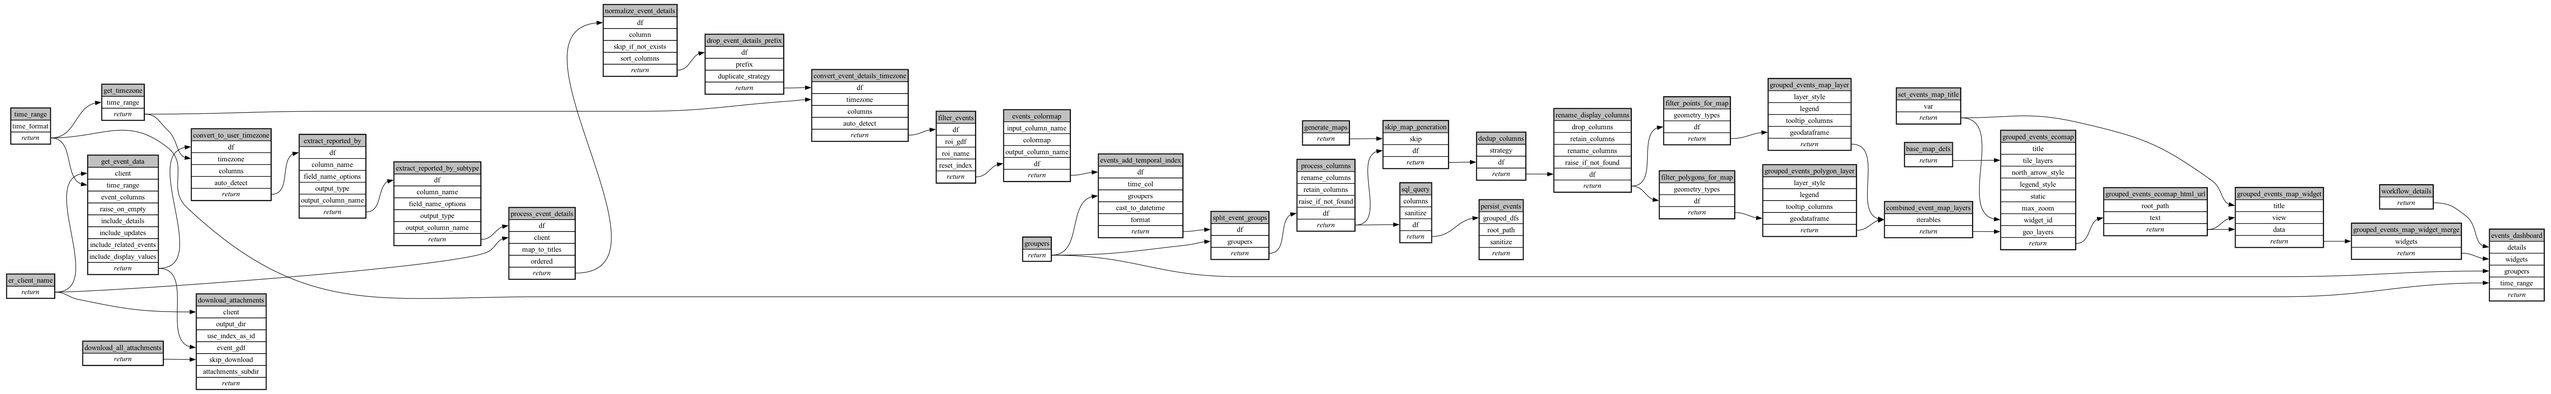
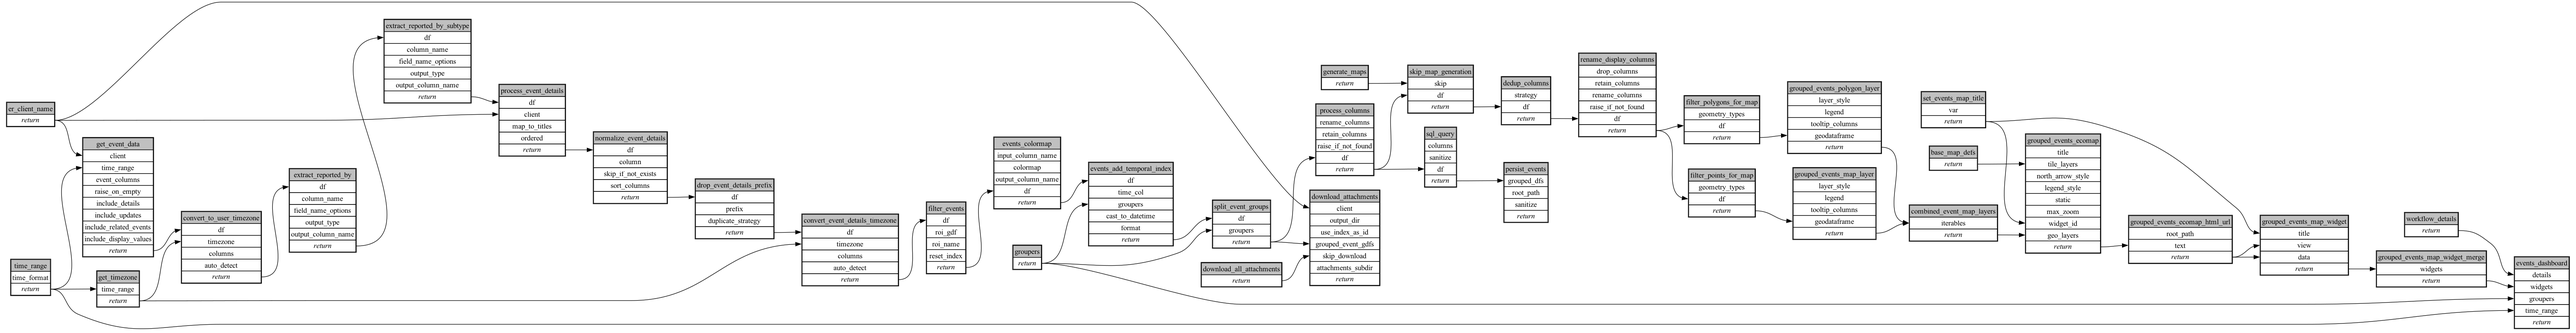
fix: wire grouped attachment download to split_event_groups (merge #44)
Rebase onto main (#44) introduced download_grouped_event_attachments and
groupbykey_passthrough_skip; rewire the attachment node to feed
grouped_event_gdfs from split_event_groups (keeping the positive
download toggle). Recompile (--variant=gcp).

Changed region(s): [[0.1874, 0.0, 0.9995, 0.9881], [0.0, 0.2162, 0.3124, 1.0], [0.1249, 0.0309, 0.2499, 0.3088]]

diff --git a/ecoscope-workflows-download-events-workflow/ecoscope_workflows_download_events_workflow/dags/run_sequential_mock_io.py b/ecoscope-workflows-download-events-workflow/ecoscope_workflows_download_events_workflow/dags/run_sequential_mock_io.py
@@ -86,6 +86,9 @@ from ecoscope.platform.tasks.skip import all_geometry_are_none as all_geometry_a
 from ecoscope.platform.tasks.transformation import (
     filter_by_geometry_type as filter_by_geometry_type,
 )
+from ecoscope_workflows_ext_custom.tasks.groupby import (
+    groupbykey_passthrough_skip as groupbykey_passthrough_skip,
+)
 from ecoscope_workflows_ext_custom.tasks.skip import maybe_skip_df as maybe_skip_df
 from ecoscope_workflows_ext_custom.tasks.transformation import (
     drop_duplicate_columns as drop_duplicate_columns,
@@ -556,7 +559,7 @@ def main(params: dict[str, Any], validate_params_schema: bool = True):
             client=er_client_name,
             output_dir=os.environ["ECOSCOPE_WORKFLOWS_RESULTS"],
             use_index_as_id=False,
-            event_gdf=get_event_data,
+            grouped_event_gdfs=split_event_groups,
             skip_download=download_all_attachments,
             attachments_subdir="attachments",
             **(params.get("download_attachments") or {}),

diff --git a/ecoscope-workflows-download-events-workflow/ecoscope_workflows_download_events_workflow/dags/run_sequential.py b/ecoscope-workflows-download-events-workflow/ecoscope_workflows_download_events_workflow/dags/run_sequential.py
@@ -539,7 +539,7 @@ def main(params: dict[str, Any], validate_params_schema: bool = True):
             client=er_client_name,
             output_dir=os.environ["ECOSCOPE_WORKFLOWS_RESULTS"],
             use_index_as_id=False,
-            event_gdf=get_event_data,
+            grouped_event_gdfs=split_event_groups,
             skip_download=download_all_attachments,
             attachments_subdir="attachments",
             **(params.get("download_attachments") or {}),

diff --git a/ecoscope-workflows-download-events-workflow/tests/conftest.py b/ecoscope-workflows-download-events-workflow/tests/conftest.py
@@ -44,7 +44,7 @@ RESULTS_ENV_VAR = "ECOSCOPE_WORKFLOWS_RESULTS"
 IO_TASKS_IMPORTABLE_REFERENCES = [
     "ecoscope.platform.tasks.io.get_events",
     "ecoscope_workflows_ext_custom.tasks.io.process_events_details",
-    "ecoscope_workflows_ext_custom.tasks.io.download_event_attachments",
+    "ecoscope_workflows_ext_custom.tasks.io.download_grouped_event_attachments",
 ]
 
 yaml = ruamel.yaml.YAML(typ="safe")

diff --git a/ecoscope-workflows-download-events-workflow/README.md b/ecoscope-workflows-download-events-workflow/README.md
@@ -5,8 +5,8 @@
 
 ```yaml
 # fingerprint:
-artifacts_sha256_basic: ef1bffafbddec702577e5eb2917173991060a20db8b018f8829cf7bb887b6091
-artifacts_sha256_strict: c44a9edfeb1c2bbe84eb9a60c7ffb596e7929ea45d4b791b9a8b30b89a554625
+artifacts_sha256_basic: b7866c47529b21ac7cc5483b33fbb572035ee766d720433b1e57b13a7ffc3c5a
+artifacts_sha256_strict: ec9102355413e6b5687788fe916f669706879b4e91237e56195fe6b96ced7952
 installed_requirements:
 - channel: https://repo.prefix.dev/ecoscope-workflows/
   name: ecoscope-platform
@@ -18,7 +18,7 @@ installed_requirements:
   name: pydeck
   version: {version: ==0.9.2}
 params_sha256: 27b83fb2c0dd72bf97a9e5334a4045605f1f59abbbf8bd19be30e7dbc6ccbb50
-spec_sha256: eb8fad95b25fdd5be3cff12444bed955a7877fb0b60e7db2668800d7eb9f1afa
+spec_sha256: 1f2fa36806257c986445447d73a18eae9f324d06af9708ccdb5562d8d2317ed8
 
 ```
 
